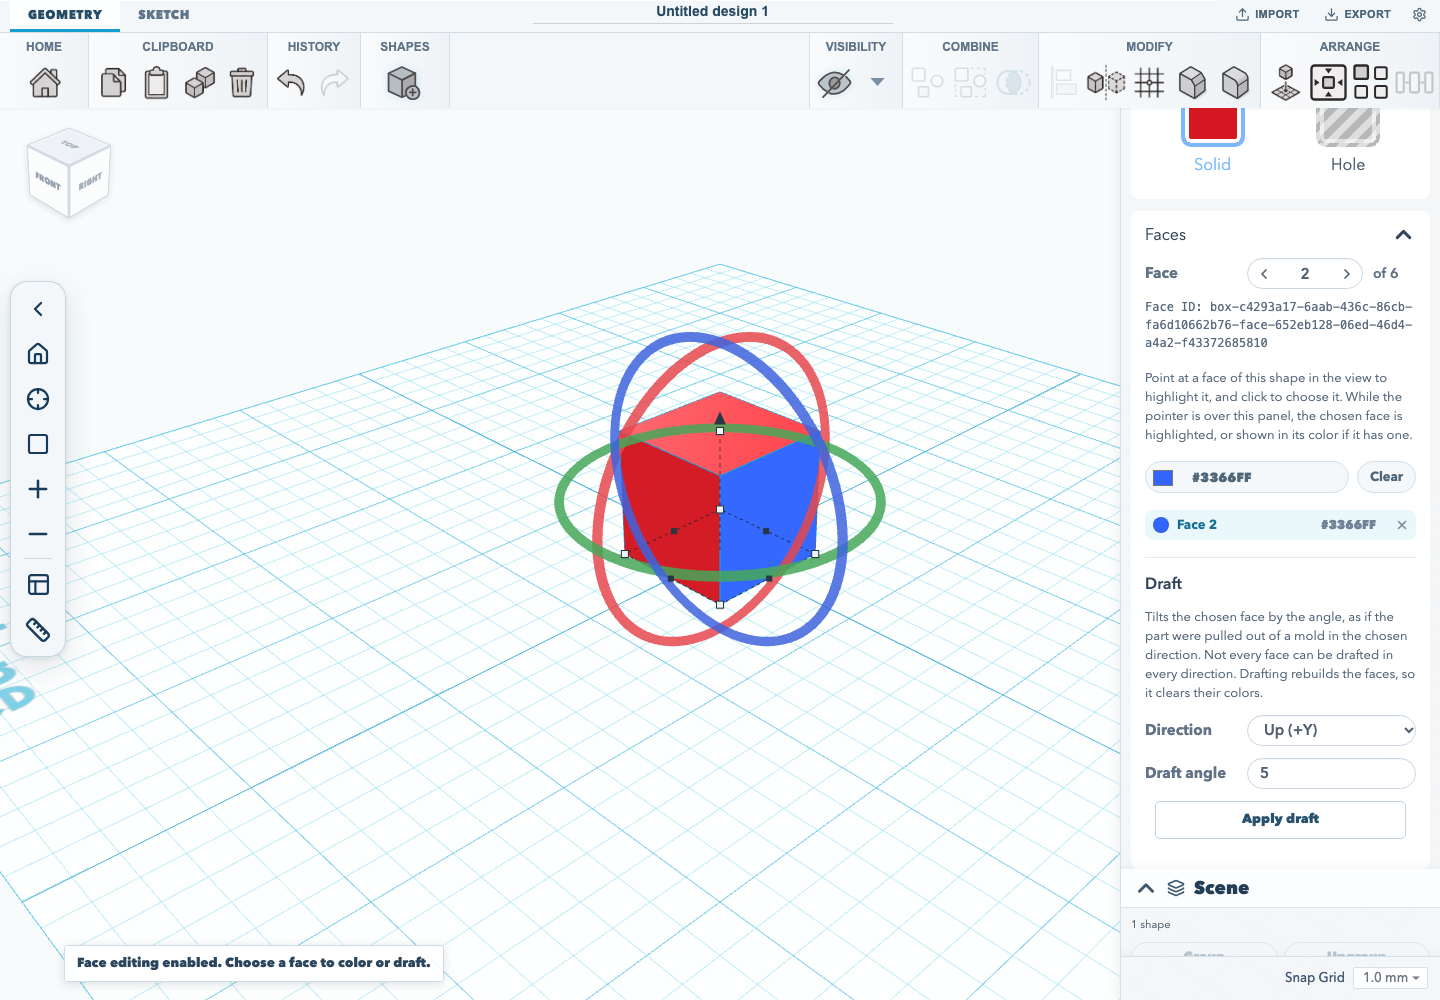
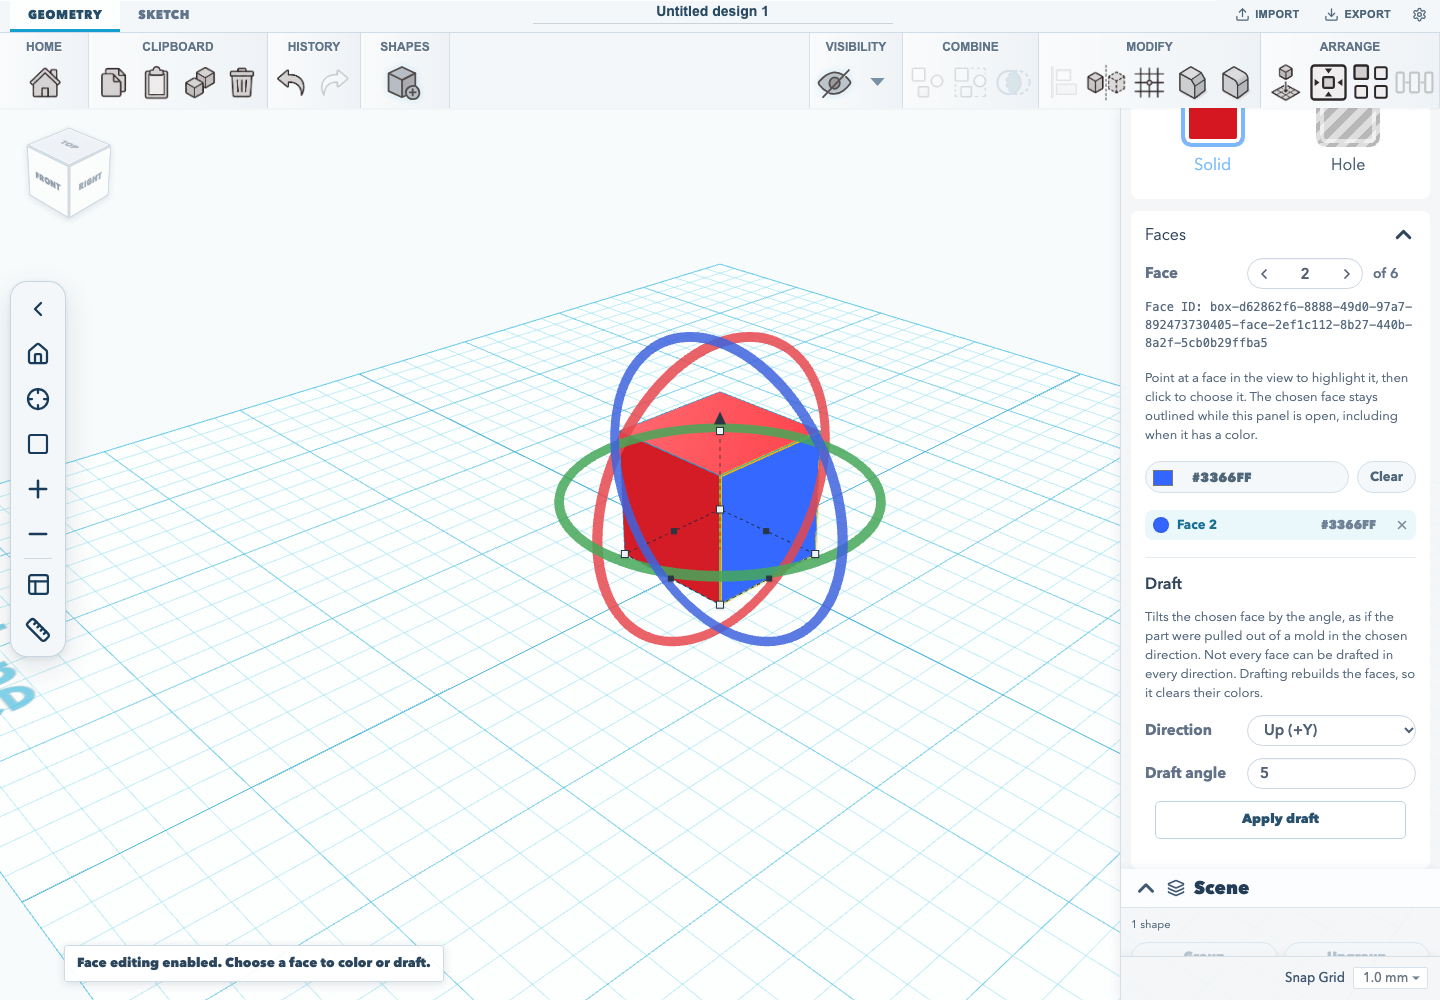
fix(editor): preserve face outlines with viewport picking

Changed region(s): [[0.7812, 0.279, 0.9688, 0.465]]

diff --git a/apps/web/src/components/WorkplaneViewport.tsx b/apps/web/src/components/WorkplaneViewport.tsx
@@ -21,11 +21,11 @@ import { WorkspaceSettingsModal } from "@/components/workplane/WorkspaceSettings
 import type { AppThemePreference, ResolvedAppTheme } from "@/lib/appTheme";
 import type { ChallengeTutorialId } from "@/lib/challenges";
 import { cadModifierPrimitiveForBakedShape, cadTransformFromMatrix, cadTransformToMatrix } from "@/lib/engine/cadBakeMetadata";
-import { FACE_HIGHLIGHT_COLOR, withFaceHighlight } from "@/lib/shapeFaces";
+import { FACE_HIGHLIGHT_COLOR } from "@/lib/shapeFaces";
 import { orthographicFramingZoom, perspectiveFramingDistance } from "@/lib/cameraFraming";
 import { orthographicHalfHeightAtDistance, orthographicVisibleHalfHeight, perspectiveDistanceForHalfHeight, toggledCameraProjection, type CameraProjection } from "@/lib/cameraProjection";
 import { createGearGeometry } from "@/lib/gearGeometry";
-import { createFaceColorPreviewGeometry, faceAtTriangle, faceTrianglePositions } from "@/lib/faceColorPreview";
+import { createFaceColorPreviewGeometry, createFaceHighlightGeometry, faceAtTriangle, faceTrianglePositions } from "@/lib/faceColorPreview";
 import { FACE_PICK_CLICK_TOLERANCE_PX, isFacePickClick } from "@/lib/facePicking";
 import { createLoftGeometry } from "@/lib/loftGeometry";
 import { resolveShapeAppearance } from "@/lib/shapeAppearance";
@@ -317,7 +317,7 @@ type FaceHit = FaceHighlight & { surface: THREE.Mesh };
 type FaceHover = FaceHit & { overlay: THREE.Mesh; cameraMatrix: THREE.Matrix4; cameraProjection: THREE.Matrix4 };
 
 type ThreeState = {
-  /** The face the inspector's face tools are pointing at; painted for display only. */
+  /** Face being edited stays outlined; faceHover is the transient viewport pointer cue. */
   faceHighlight?: FaceHighlight | null;
   faceHover?: FaceHover | null;
   renderer: THREE.WebGLRenderer;
@@ -2512,6 +2512,7 @@ export function WorkplaneViewport({
 
   const hostRef = useRef<HTMLDivElement | null>(null);
   const threeRef = useRef<ThreeState | null>(null);
+  const faceHighlightRef = useRef<{ shapeId: string; faceIndex: number } | null>(null);
   const shapesRef = useRef(shapes);
   const alignReferenceShapesRef = useRef(alignReferenceShapes);
   const mirrorReferenceShapesRef = useRef(mirrorReferenceShapes);
@@ -2580,12 +2581,13 @@ export function WorkplaneViewport({
   const faceHoverFrameRef = useRef<number | null>(null);
   const [pickedFace, setPickedFace] = useState<(FaceHighlight & { serial: number }) | null>(null);
 
-  // The Faces panel's own highlight, shown while the pointer is over the panel.
+  // The Faces panel's persistent edit outline; viewport hover remains transient.
   const highlightFace = useCallback((faceIndex: number | null) => {
-    const state = threeRef.current;
-    if (!state) return;
     const shapeId = selectedIdsRef.current.length === 1 ? selectedIdsRef.current[0] : undefined;
     const next = shapeId && faceIndex !== null ? { shapeId, faceIndex } : null;
+    faceHighlightRef.current = next;
+    const state = threeRef.current;
+    if (!state) return;
     const current = state.faceHighlight ?? null;
     if (current?.shapeId === next?.shapeId && current?.faceIndex === next?.faceIndex) return;
     state.faceHighlight = next;
@@ -3165,6 +3167,7 @@ export function WorkplaneViewport({
 
     const state = createThreeScene(host);
     threeRef.current = state;
+    state.faceHighlight = faceHighlightRef.current;
     rebuildWorkplane(state, workspaceRef.current, resolvedThemeRef.current, placementWorkplaneRef.current);
     // The scene is built after the projection effect has already run for the first
     // time, so the stored preference is applied here on mount.
@@ -5981,7 +5984,7 @@ function createThreeScene(host: HTMLDivElement): ThreeState {
     const height = Math.max(1, host.clientHeight);
     renderer.setSize(width, height);
     updateCameraViewport(state.camera, width, height);
-    [state.transformGuideLayer, state.moveDimensionLayer].forEach((layer) => {
+    [state.shapeLayer, state.transformGuideLayer, state.moveDimensionLayer].forEach((layer) => {
       layer.traverse((child) => {
         const material = (child as THREE.Mesh).material;
         const materials = Array.isArray(material) ? material : material ? [material] : [];
@@ -6908,13 +6911,11 @@ function rebuildShapes(
     return;
   }
   const highlight = state.faceHighlight;
-  const shapes = highlight
-    ? projectShapes.map((shape) => shape.id === highlight.shapeId ? withFaceHighlight(shape, highlight.faceIndex) : shape)
-    : projectShapes;
-
+  const viewportRect = state.renderer.domElement.getBoundingClientRect();
+  const faceOutlineResolution: [number, number] = [Math.max(1, viewportRect.width), Math.max(1, viewportRect.height)];
   clearCutPreviewOverlays(state);
   const selected = new Set(selectedIds);
-  const visibleShapes = shapes.filter((shape) => !shape.hidden);
+  const visibleShapes = projectShapes.filter((shape) => !shape.hidden);
 
   if (useOfficialModifierRendering) {
     disposeChildren(state.shapeLayer);
@@ -6923,13 +6924,13 @@ function rebuildShapes(
     visibleShapes.forEach((shape) => {
       const object = createShapeObject(shape, selected.has(shape.id), () => {
         state.needsRender = true;
-      }, false);
+      }, false, highlight?.shapeId === shape.id ? highlight.faceIndex : null, faceOutlineResolution);
       state.shapeLayer.add(object);
     });
     if (showCutPreviews) {
       syncCutPreviewOverlays(state, visibleShapes);
     }
-    rebuildSelectionHelpers(state, shapes, selectedIds, workplane);
+    rebuildSelectionHelpers(state, projectShapes, selectedIds, workplane);
     state.needsRender = true;
     return;
   }
@@ -6953,8 +6954,9 @@ function rebuildShapes(
     const transformSignature = shapeTransformSignature(shape);
     const materialSignature = shapeMaterialSignature(shape);
     const geometrySignature = shapeGeometrySignature(shape);
+    const faceHighlightIndex = highlight?.shapeId === shape.id ? highlight.faceIndex : null;
     let record = state.shapeRecords.get(shape.id);
-    if (record && record.geometrySignature !== geometrySignature) {
+    if (record && (record.geometrySignature !== geometrySignature || record.object.userData.faceHighlightIndex !== faceHighlightIndex)) {
       state.shapeLayer.remove(record.object);
       disposeObject(record.object);
       state.shapeRecords.delete(shape.id);
@@ -6964,7 +6966,7 @@ function rebuildShapes(
     if (!record) {
       const object = createShapeObject(shape, selectedShape, () => {
         state.needsRender = true;
-      });
+      }, true, faceHighlightIndex, faceOutlineResolution);
       state.shapeLayer.add(object);
       record = {
         object,
@@ -7000,7 +7002,7 @@ function rebuildShapes(
     syncCutPreviewOverlays(state, visibleShapes);
   }
 
-  rebuildSelectionHelpers(state, shapes, selectedIds, workplane);
+  rebuildSelectionHelpers(state, projectShapes, selectedIds, workplane);
   state.needsRender = true;
 }
 
@@ -8215,12 +8217,15 @@ function createShapeObject(
   showEdges = false,
   onTextureReady?: () => void,
   acceleratedPicking = true,
+  faceHighlightIndex: number | null = null,
+  faceOutlineResolution?: [number, number],
 ) {
   const group = new THREE.Group();
   group.name = shape.name;
   group.userData.shapeId = shape.id;
   group.userData.showEdges = showEdges;
   group.userData.acceleratedPicking = acceleratedPicking;
+  group.userData.faceHighlightIndex = faceHighlightIndex;
   group.userData.rulerDimensions = [shapeWidth(shape), shape.height, shapeDepth(shape)] satisfies [number, number, number];
   group.userData.rulerTopologyKey = rulerShapeTopologyKey(shape);
   group.position.set(shape.x, (shape.elevation ?? 0) + shape.height / 2, shape.z);
@@ -8387,6 +8392,8 @@ function createShapeObject(
             height / Math.max(0.001, shape.importedMesh.baseHeight),
             depth / Math.max(0.001, shape.importedMesh.baseDepth),
           ),
+          faceHighlightIndex,
+          faceOutlineResolution,
         );
       } else {
         addMesh(group, sharedShapeGeometry(geometryCacheKey, () => new THREE.BoxGeometry(size, Math.max(3, height * 0.35), size * 0.72)), material, shape);
@@ -8529,6 +8536,8 @@ function addMesh(
   position?: THREE.Vector3,
   rotation?: THREE.Euler,
   scale?: THREE.Vector3,
+  faceHighlightIndex: number | null = null,
+  faceOutlineResolution?: [number, number],
 ) {
   const based = geometry.userData.cached ? geometry : putGeometryOnBase(geometry);
   const prepared = taperGeometryForShape(based, shape);
@@ -8553,6 +8562,37 @@ function addMesh(
   }
   group.add(mesh);
   addShapeEdgeDecorations(group, mesh, prepared, shape);
+  if (faceHighlightIndex !== null && shape.importedMesh?.faceGroups?.length) {
+    const outline = createFaceHighlightGeometry({
+      positions: shape.importedMesh.positions,
+      normals: shape.importedMesh.normals,
+      faceGroups: shape.importedMesh.faceGroups,
+    }, faceHighlightIndex);
+    if (outline.getAttribute("position").count) {
+      const geometry = new LineSegmentsGeometry();
+      geometry.setPositions(Array.from(outline.getAttribute("position").array));
+      outline.dispose();
+      const material = new LineMaterial({
+        color: "#ffb400",
+        linewidth: 3,
+        worldUnits: false,
+        depthTest: true,
+        depthWrite: false,
+        alphaToCoverage: false,
+      });
+      material.toneMapped = false;
+      material.resolution.set(...(faceOutlineResolution ?? [1, 1]));
+      const line = new LineSegments2(geometry, material);
+      line.position.copy(mesh.position);
+      line.rotation.copy(mesh.rotation);
+      line.scale.copy(mesh.scale);
+      line.renderOrder = 1004;
+      line.frustumCulled = false;
+      line.userData.shapeDecoration = true;
+      line.userData.faceHighlight = true;
+      group.add(line);
+    } else outline.dispose();
+  }
 }
 
 function addShapeEdgeDecorations(group: THREE.Group, mesh: THREE.Mesh, prepared: THREE.BufferGeometry, shape: WorkplaneShape) {

diff --git a/apps/web/src/components/workplane/ShapeFaceTools.tsx b/apps/web/src/components/workplane/ShapeFaceTools.tsx
@@ -20,10 +20,10 @@ const PULL_AXIS_LABELS: Record<DraftFacePullAxis, MessageKey> = {
 /**
  * The inspector's face colour and face draft tools.
  *
- * Both act on one face, chosen once here and highlighted in the viewport while
- * the pointer or focus is in the card. While the card is open the face can also
- * be picked in the viewport, which hands it back through `pickedFace`; the
- * stepper stays as the keyboard way to choose one. A shape without exact faces gets an
+ * Both act on one face, chosen once here and outlined in the viewport while
+ * this card is open. While the card is open the face can also be picked in the
+ * viewport, which hands it back through `pickedFace`; the stepper stays as the
+ * keyboard way to choose one. A shape without exact faces gets an
  * explicit "Enable face editing" action instead of the tools simply not being
  * there.
  */
@@ -55,7 +55,6 @@ export function ShapeFaceTools({
   const [open, setOpen] = useState(true);
   const [faceIndex, setFaceIndex] = useState(0);
   const [faceInput, setFaceInput] = useState("1");
-  const [active, setActive] = useState(false);
   const [enabling, setEnabling] = useState(false);
   const [pullAxis, setPullAxis] = useState<DraftFacePullAxis>("y");
   const [angle, setAngle] = useState("5");
@@ -82,8 +81,8 @@ export function ShapeFaceTools({
     }
   }, [faceCount, faceIndex]);
   useEffect(() => {
-    onHighlightFace?.(exact && open && active ? faceIndex : null);
-  }, [active, exact, faceIndex, onHighlightFace, open]);
+    onHighlightFace?.(exact && open ? faceIndex : null);
+  }, [exact, faceIndex, onHighlightFace, open, shape.id]);
   useEffect(() => () => onHighlightFace?.(null), [onHighlightFace]);
   const pickable = exact && open && !locked;
   useEffect(() => {
@@ -117,12 +116,6 @@ export function ShapeFaceTools({
     <section
       className={`property-card face-tools-card ${open ? "" : "collapsed"}`}
       aria-label={t("panels.inspector.faces.title")}
-      onPointerEnter={() => setActive(true)}
-      onPointerLeave={() => setActive(false)}
-      onFocus={() => setActive(true)}
-      onBlur={(event) => {
-        if (!event.currentTarget.contains(event.relatedTarget as Node | null)) setActive(false);
-      }}
     >
       <button
         className="property-card-header"
